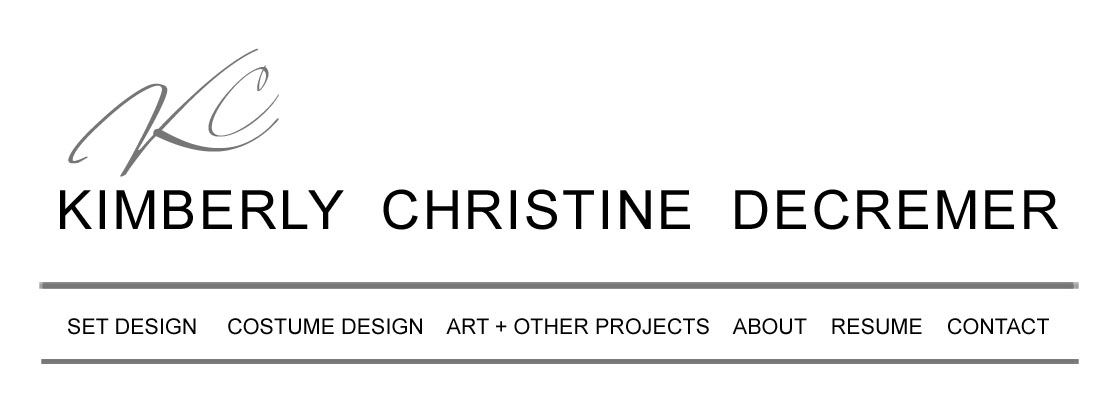
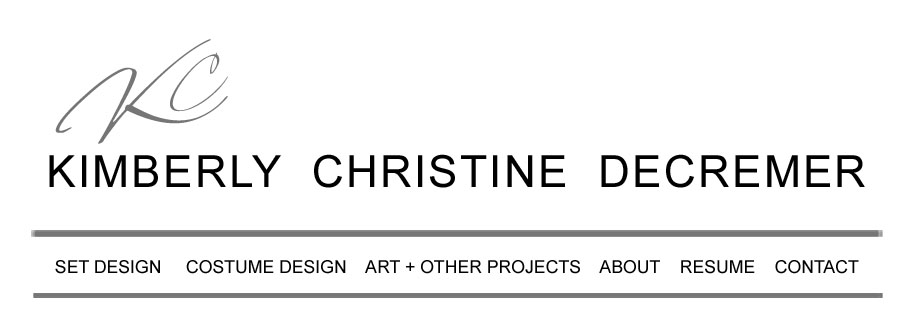
Add files via upload

diff --git a/index.html b/index.html
@@ -2,24 +2,18 @@
 <html>
 <head>
 <meta charset="UTF-8">
-<title>Untitled Document</title>
+<title>Kimberly DeCremer</title>
 </head>
 
 <body>
-<table width="1100" border="0" align="center">
+<table width="900" border="0" align="center">
   <tbody>
     <tr>
-      <td><table width="1100" border="0">
-        <tbody>
-          <tr>
-            <td align="center"><img src="header.jpg" width="1100" height="405" alt=""/></td>
-          </tr>
-        </tbody>
-      </table></td>
+      <td><img src="header.jpg" width="900" height="331" alt=""/></td>
     </tr>
   </tbody>
 </table>
-<table width="1100" border="0" align="center">
+<table width="900" border="0" align="center">
   <tbody>
     <tr>
       <td align="center" style="font-size: 48px">Set Design</td>
@@ -27,12 +21,12 @@
   </tbody>
 </table>
 <p>&nbsp;</p>
-<table width="1176" border="0" align="center">
+<table width="1057" border="0" align="center">
   <tbody>
     <tr>
-      <td width="455">&nbsp;</td>
-      <td width="455">&nbsp;</td>
-      <td width="269">&nbsp;</td>
+      <td width="362">&nbsp;</td>
+      <td width="368">&nbsp;</td>
+      <td width="313">&nbsp;</td>
     </tr>
     <tr>
       <td>&nbsp;</td>
